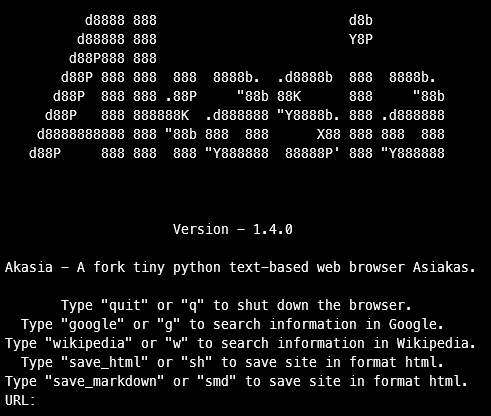
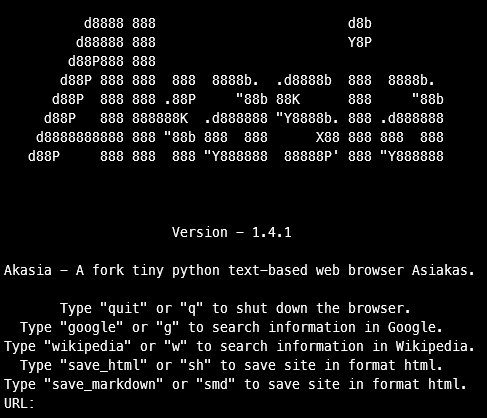
Release 1.4.1
Correction of pylint errors from the previous release.

diff --git a/akasia.py b/akasia.py
@@ -5,7 +5,7 @@ import requests
 import html2text
 import wikipedia
 
-version = '1.4.0'
+VERSION = '1.4.1'
 
 # pylint settings:
 # pylint: disable=E1101
@@ -85,10 +85,10 @@ def save_site_in_html(site_content: str, path: str) -> None:
 
     """
 
-
     file = open(path, 'w')
     file.write(site_content)
     file.close()
+
 
 def save_site_in_markdown(site_content: str, path: str) -> None:
     """
@@ -107,6 +107,7 @@ def save_site_in_markdown(site_content: str, path: str) -> None:
     file.write(html2text.html2text(site_content))
     file.close()
 
+
 def main() -> None:
     """ This is main function, what initializing web browser Akasia. """
 
@@ -119,7 +120,7 @@ def main() -> None:
      d88P   888 888888K  .d888888 "Y8888b. 888 .d888888 
     d8888888888 888 "88b 888  888      X88 888 888  888 
    d88P     888 888  888 "Y888888  88888P' 888 "Y888888\n\n\n''')
-    print(f'Version - {version}\n'.center(58))
+    print(f'Version - {VERSION}\n'.center(58))
     print('Akasia - A fork tiny python text-based web browser Asiakas.\n'.center(58))
     print('Type "quit" or "q" to shut down the browser.'.center(58))
     print('Type "google" or "g" to search information in Google.'.center(58))

diff --git a/setup.py b/setup.py
@@ -5,7 +5,7 @@ setup.py is the Akasia setup file.
 from setuptools import setup
 
 setup(
-    version='1.4.0',
+    version='1.4.1',
     license="MIT License",
     name='Akasia',
     author='Robrecht De Rouck',
